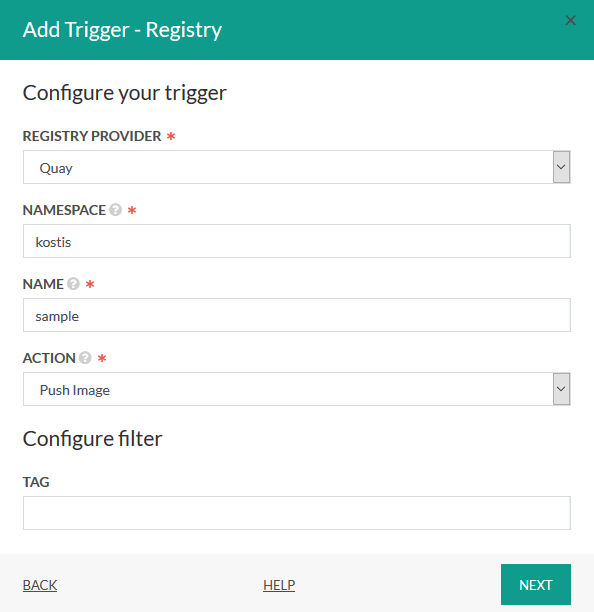
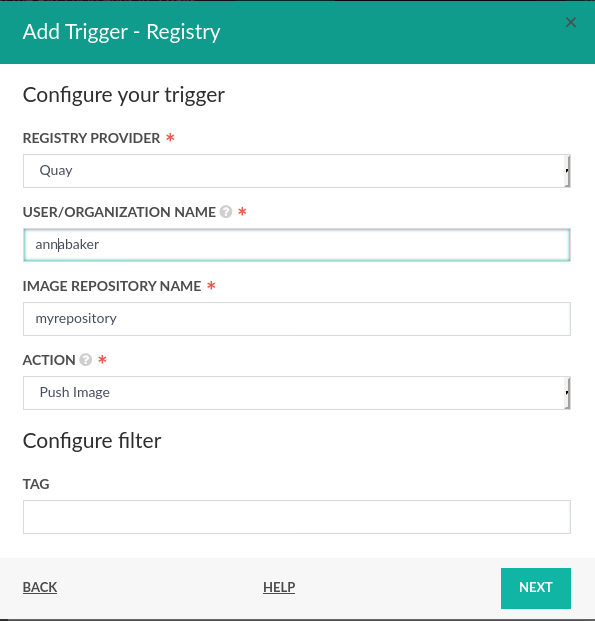
Mods to Jfrog and Quay trigger pages

diff --git a/_docs/configure-ci-cd-pipeline/triggers/quay-triggers.md b/_docs/configure-ci-cd-pipeline/triggers/quay-triggers.md
@@ -36,11 +36,11 @@ max-width="40%"
 
 Fill the following information:
 
-* Registry Provider - select `Quay`.
-* *Namespace* - put Quay username or organization name here.
-* *Name* - Quay image repository name.
+* *Registry Provider* - select `Quay`.
+* *User/Organization Name* - put Quay username or organization name here.
+* *Image Repository Name* - Quay image repository name.
 * *Action* - select `Push Image` action.
-* *Filter* - optional filter to specify which image *tags* will trigger pipeline execution: [Re2](https://github.com/google/re2/wiki/Syntax) regular expression.
+* *Tag* - optional filter to specify which image *tags* will trigger pipeline execution: [Re2](https://github.com/google/re2/wiki/Syntax) regular expression.
 
 {% include image.html
 lightbox="true"

diff --git a/_docs/configure-ci-cd-pipeline/triggers/jfrog-triggers.md b/_docs/configure-ci-cd-pipeline/triggers/jfrog-triggers.md
@@ -35,11 +35,11 @@ max-width="40%"
 
 Fill the following information:
 
-* Registry Provider - select `JFrog`.
-* *Namespace* - put JFrog name of repository.
-* *Name* - put name of Docker image.
+* *Registry Provider* - select `JFrog`.
+* *Repository Name* - put JFrog name of repository.
+* *Docker Image Name* - put name of Docker image.
 * *Action* - select `Push Image` action.
-* *Filter* - optional filter to specify which image *tags* will trigger pipeline execution: [Re2](https://github.com/google/re2/wiki/Syntax) regular expression.
+* *Tag* - optional filter to specify which image *tags* will trigger pipeline execution: [Re2](https://github.com/google/re2/wiki/Syntax) regular expression.
 
 {% include image.html
 lightbox="true"

diff --git a/_docs/configure-ci-cd-pipeline/pipelines.md b/_docs/configure-ci-cd-pipeline/pipelines.md
@@ -136,6 +136,7 @@ Once you create your pipeline you can also click on the top tab called *Settings
 
 - **Pipeline Name**: the name of your pipeline (useful for working with the [Codefresh CLI](https://codefresh-io.github.io/cli/))
 - **Pipeline ID**: the ID of your pipeline (useful for working with the [Codefresh CLI](https://codefresh-io.github.io/cli/))
+> Note that the Pipeline Name and ID are interchangeable when working with the Codefresh CLI
 - **Pipeline Description**: a freetext pipeline description
 - **Pipeline Tags**: One or more tags used for [access control]({{site.baseurl}}/docs/enterprise/access-control/)
 - **Public Build Logs**: If enabled, the pipeline's builds will be viewable by users without a Codefresh account
